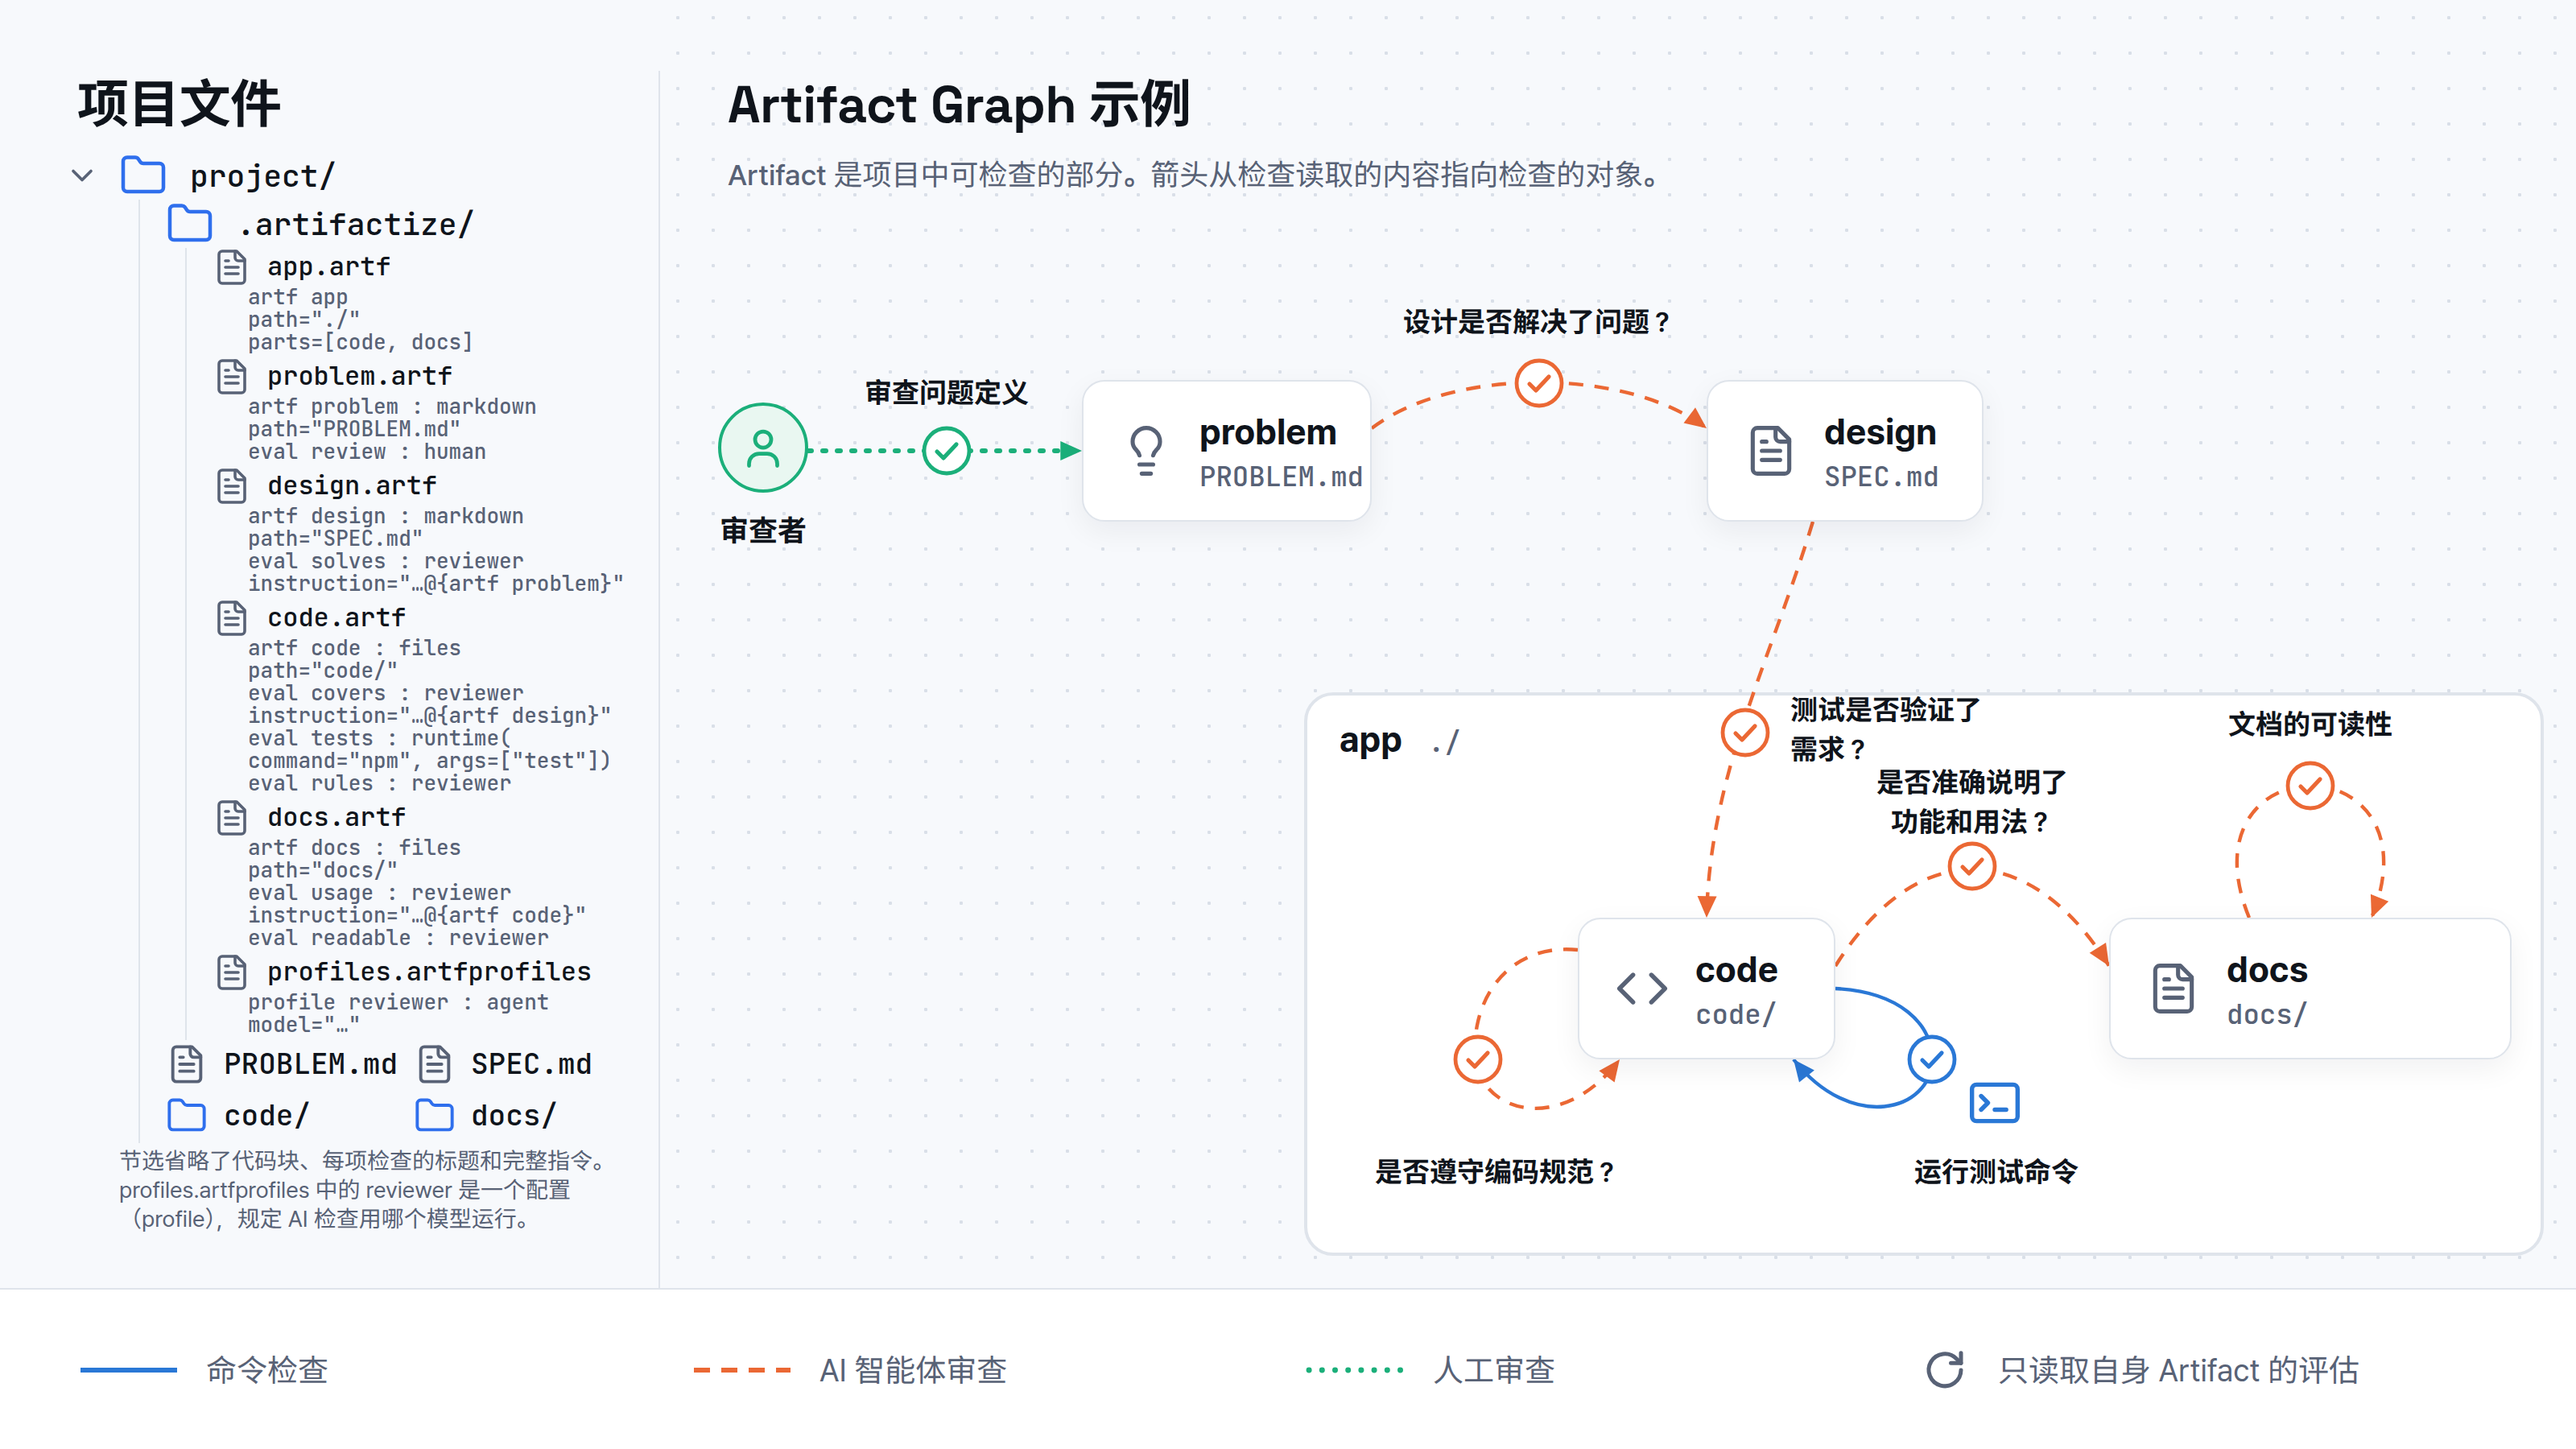
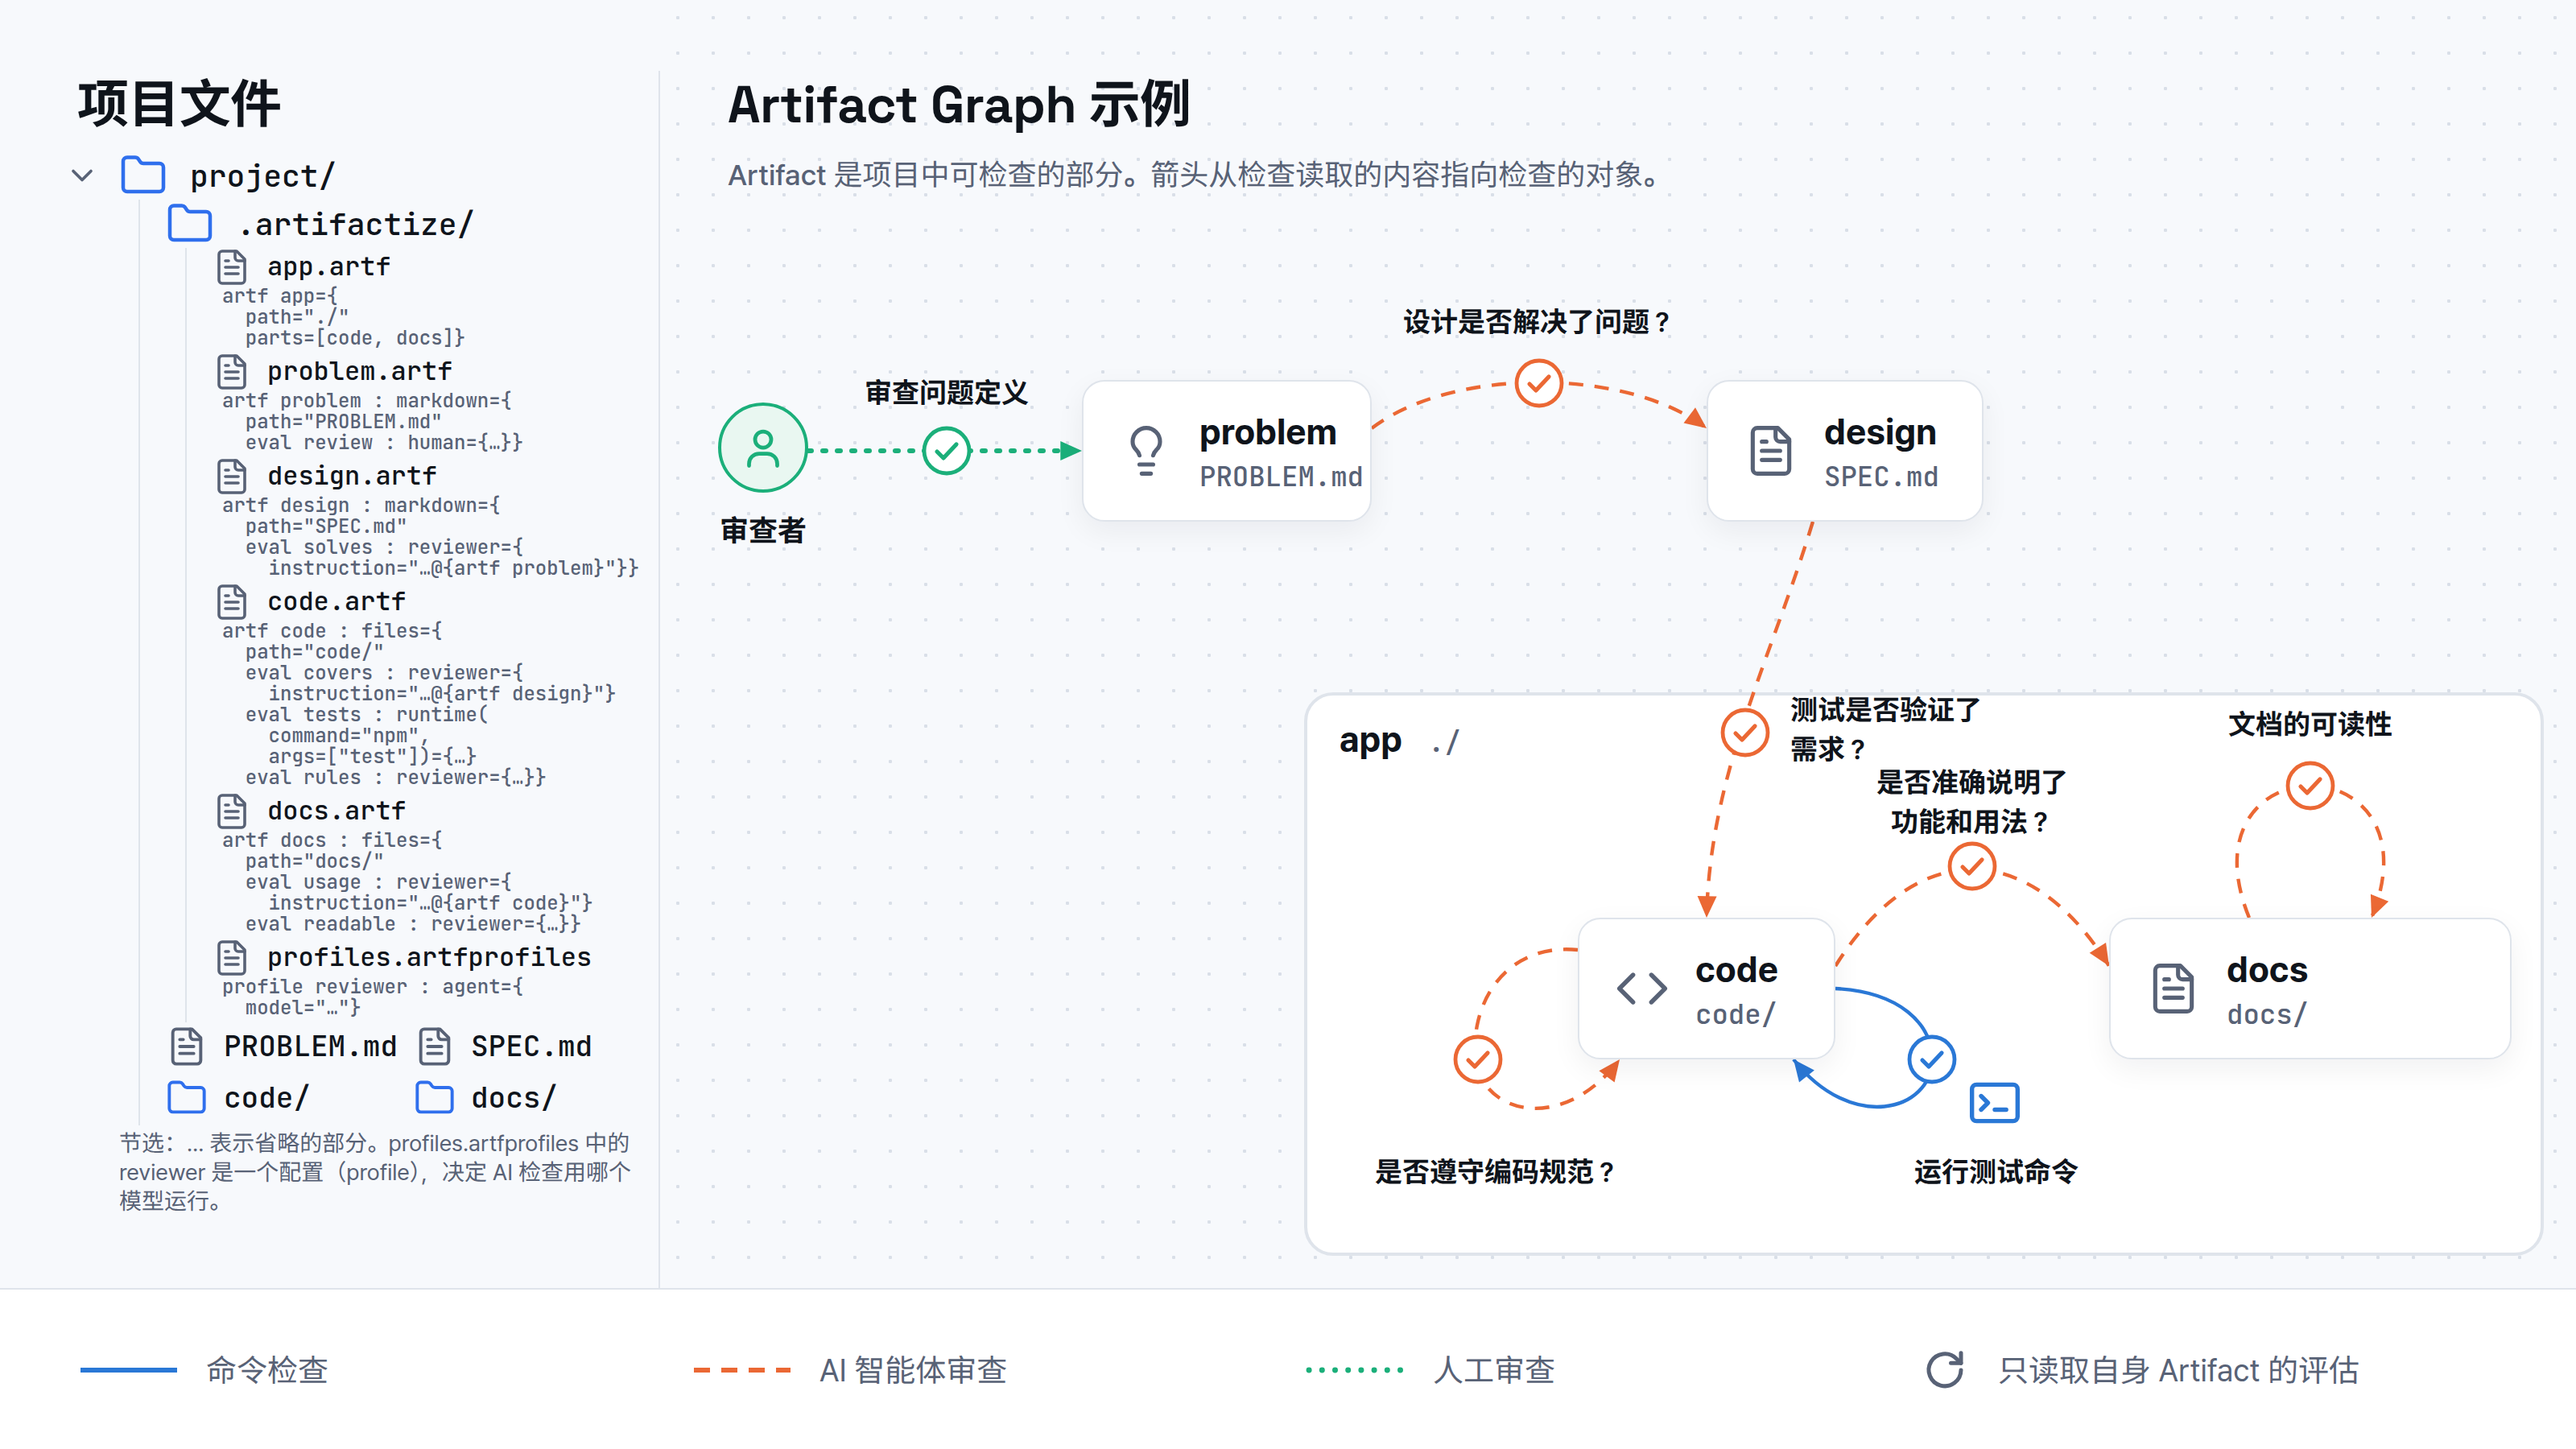
docs(media): the example graph's files are excerpts in .artf syntax (#504)
The listed declarations dropped their = { … } blocks, which the docs require, and a comment still
called them TOML. Each file now shows its declarations in .artf syntax, … marking what is left
out, and the excerpt says so plainly. The images and social cards are rendered again.

Changed region(s): [[0.0312, 0.1867, 0.25, 0.8711]]

diff --git a/assets/others/graph-example.html b/assets/others/graph-example.html
@@ -93,8 +93,8 @@
   .tree .artf .file { color: var(--dim); }
   .tree .artf svg { width: 24px; height: 24px; }
   .tree .definition { margin-bottom: 2px; }
-  /* Each file's declarations, its checks included: every line is TOML as the file holds it. */
-  .tree .definition code { flex-basis: 100%; margin-left: 22px; color: var(--dim); font: 500 13px/14px var(--mono); white-space: pre; }
+  /* Each file's declarations, its checks included, in its .artf syntax; … marks what is left out. */
+  .tree .definition code { flex-basis: 100%; margin-left: 6px; color: var(--dim); font: 500 12px/13px var(--mono); white-space: pre; }
   .tree svg { width: 30px; height: 30px; flex: none; }
   /* What the listings leave out, under the tree. */
   .tree .excerpt { margin: 2px 16px 0 26px; color: var(--dim); font: 400 14px/18px var(--sans); }
@@ -225,12 +225,12 @@
         <ul>
           <li><span><svg class="folder"><use href="#i-folder"/></svg>.artifactize/</span>
             <ul>
-              <li class="definition"><span class="artf"><svg class="file"><use href="#i-file"/></svg>app.artf</span><code>artf app</code><code>path=&quot;./&quot;</code><code>parts=[code, docs]</code></li>
-              <li class="definition"><span class="artf"><svg class="file"><use href="#i-file"/></svg>problem.artf</span><code>artf problem : markdown</code><code>path=&quot;PROBLEM.md&quot;</code><code>eval review : human</code></li>
-              <li class="definition"><span class="artf"><svg class="file"><use href="#i-file"/></svg>design.artf</span><code>artf design : markdown</code><code>path=&quot;SPEC.md&quot;</code><code>eval solves : reviewer</code><code>instruction=&quot;…@{artf problem}&quot;</code></li>
-              <li class="definition"><span class="artf"><svg class="file"><use href="#i-file"/></svg>code.artf</span><code>artf code : files</code><code>path=&quot;code/&quot;</code><code>eval covers : reviewer</code><code>instruction=&quot;…@{artf design}&quot;</code><code>eval tests : runtime(</code><code>command=&quot;npm&quot;, args=[&quot;test&quot;])</code><code>eval rules : reviewer</code></li>
-              <li class="definition"><span class="artf"><svg class="file"><use href="#i-file"/></svg>docs.artf</span><code>artf docs : files</code><code>path=&quot;docs/&quot;</code><code>eval usage : reviewer</code><code>instruction=&quot;…@{artf code}&quot;</code><code>eval readable : reviewer</code></li>
-              <li class="definition"><span class="artf"><svg class="file"><use href="#i-file"/></svg>profiles.artfprofiles</span><code>profile reviewer : agent</code><code>model=&quot;…&quot;</code></li>
+              <li class="definition"><span class="artf"><svg class="file"><use href="#i-file"/></svg>app.artf</span><code>artf app={</code><code>  path=&quot;./&quot;</code><code>  parts=[code, docs]}</code></li>
+              <li class="definition"><span class="artf"><svg class="file"><use href="#i-file"/></svg>problem.artf</span><code>artf problem : markdown={</code><code>  path=&quot;PROBLEM.md&quot;</code><code>  eval review : human={…}}</code></li>
+              <li class="definition"><span class="artf"><svg class="file"><use href="#i-file"/></svg>design.artf</span><code>artf design : markdown={</code><code>  path=&quot;SPEC.md&quot;</code><code>  eval solves : reviewer={</code><code>    instruction=&quot;…@{artf problem}&quot;}}</code></li>
+              <li class="definition"><span class="artf"><svg class="file"><use href="#i-file"/></svg>code.artf</span><code>artf code : files={</code><code>  path=&quot;code/&quot;</code><code>  eval covers : reviewer={</code><code>    instruction=&quot;…@{artf design}&quot;}</code><code>  eval tests : runtime(</code><code>    command=&quot;npm&quot;,</code><code>    args=[&quot;test&quot;])={…}</code><code>  eval rules : reviewer={…}}</code></li>
+              <li class="definition"><span class="artf"><svg class="file"><use href="#i-file"/></svg>docs.artf</span><code>artf docs : files={</code><code>  path=&quot;docs/&quot;</code><code>  eval usage : reviewer={</code><code>    instruction=&quot;…@{artf code}&quot;}</code><code>  eval readable : reviewer={…}}</code></li>
+              <li class="definition"><span class="artf"><svg class="file"><use href="#i-file"/></svg>profiles.artfprofiles</span><code>profile reviewer : agent={</code><code>  model=&quot;…&quot;}</code></li>
             </ul>
           </li>
           <li class="source"><span><svg class="file"><use href="#i-file"/></svg>PROBLEM.md</span></li><li class="source"><span><svg class="file"><use href="#i-file"/></svg>SPEC.md</span></li>
@@ -331,7 +331,7 @@
       legendAgent: "AI agent review",
       legendHuman: "Person's review",
       legendSelf: "Reads only its own Artifact",
-      excerpt: "In brief: blocks, titles and full instructions omitted. reviewer, in profiles.artfprofiles, is a profile: which AI model runs a check.",
+      excerpt: "An excerpt: … marks what is left out. reviewer, in profiles.artfprofiles, is a profile that chooses which AI model runs a check.",
     },
     ko: {
       repository: "프로젝트 파일",
@@ -353,7 +353,7 @@
       legendAgent: "AI 에이전트 검토",
       legendHuman: "사람이 검토",
       legendSelf: "자기 Artifact만 읽는 평가",
-      excerpt: "발췌라서 블록, 평가 제목, 지시 전문은 뺐습니다. profiles.artfprofiles의 reviewer는 AI 평가를 어떤 모델로 돌릴지 정하는 profile입니다.",
+      excerpt: "발췌입니다. …는 생략한 부분입니다. profiles.artfprofiles의 reviewer는 AI 평가를 어떤 모델로 돌릴지 정하는 profile입니다.",
     },
     zh: {
       repository: "项目文件",
@@ -375,7 +375,7 @@
       legendAgent: "AI 智能体审查",
       legendHuman: "人工审查",
       legendSelf: "只读取自身 Artifact 的评估",
-      excerpt: "节选省略了代码块、每项检查的标题和完整指令。profiles.artfprofiles 中的 reviewer 是一个配置（profile），规定 AI 检查用哪个模型运行。",
+      excerpt: "节选：… 表示省略的部分。profiles.artfprofiles 中的 reviewer 是一个配置（profile），决定 AI 检查用哪个模型运行。",
     },
   };
 
